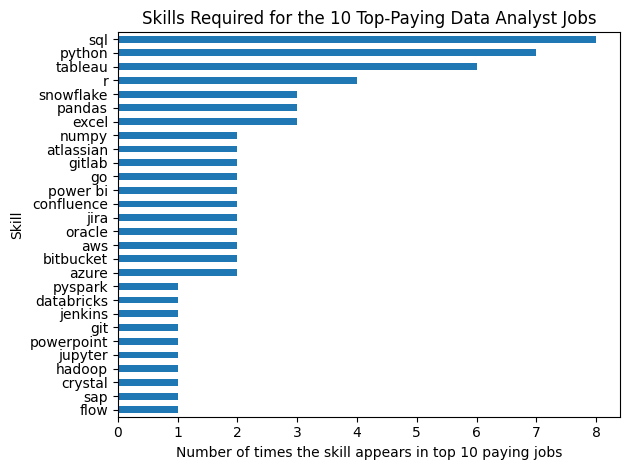
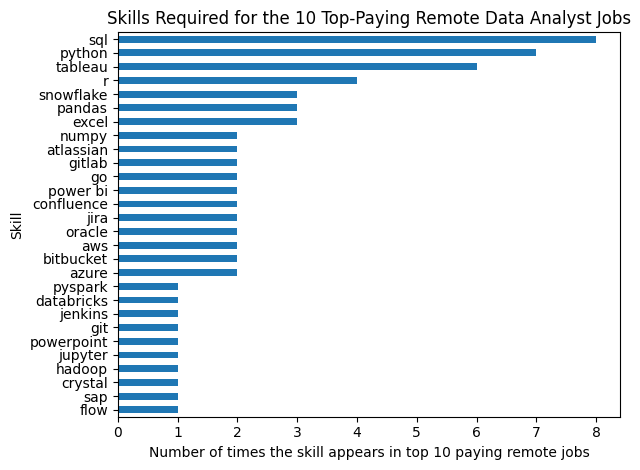
fixing descriptions for query 2

diff --git a/README.md b/README.md
@@ -43,7 +43,7 @@ This query retrieves the top 10 highest-paying data analyst job postings that ar
 
 
 ### 2. Skills Required for Top-Paying Jobs
-This query identifies the specific skills listed in the top 10 highest-paying data analyst job postings. It joins job, company, and skill data to highlight which skills are most valued by employers offering the highest salaries.
+This query identifies the specific skills listed in the top 10 highest-paying remote data analyst job postings. It joins job, company, and skill data to highlight which skills are most valued by employers offering the highest salaries.
 
 ![Most Lucrative Skills](assets/query2.png)
 
